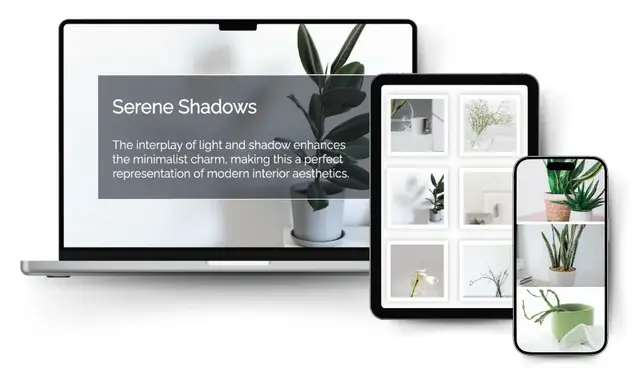
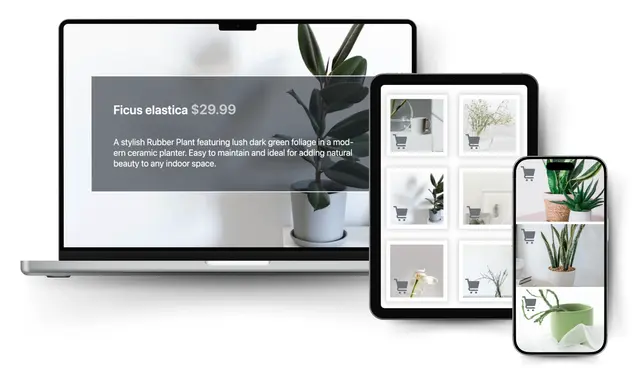
Fully Responsive WordPress Galleries section

diff --git a/src/data/studio-data.tsx b/src/data/studio-data.tsx
@@ -1,25 +1,50 @@
 import image480 from "../assets/sections/responsive-480x276.webp";
 import image640 from "../assets/sections/responsive-640x368.webp";
 import image768 from "../assets/sections/responsive-768x441.webp";
-import image940 from "../assets/sections/responsive-940x540.webp";
+import image1024 from "../assets/sections/responsive-1024x588.webp";
+import image1280 from "../assets/sections/responsive-1280x735.webp";
+import image1500 from "../assets/sections/responsive-1500x862.webp";
+import image1880 from "../assets/sections/responsive-1880x1080.webp";
+import CheckIcon from "@mui/icons-material/Check";
 
 const studioData = {
   id: "studio",
-  title: "Fully Responsive WordPress Galleries",
+  title: "Your product gallery should be working harder than this",
   text: (
     <>
-      Your visitors aren't all using the same device. Your galleries shouldn't
-      look like they are.
-      <br />
-      Re&nbsp;Gallery ensures every gallery is fully responsive, automatically
-      adapting layouts, spacing, and image presentation for any screen size.
-      From large desktop monitors to mobile phones, your galleries remain fast,
-      engaging, and visually stunning - helping you deliver a better user
-      experience and keep visitors focused on your content.
+      Turn any WooCommerce product into a gallery item - with prices,
+      Al-generated descriptions, and layouts that make shoppers stay longer and
+      buy more.
+      <div className="grid-item__list">
+        <div className="grid-item__list-item">
+          <span className="grid-item__check" aria-hidden="true">
+            <CheckIcon />
+          </span>
+          Pull products directly from WooCommerce
+        </div>
+        <div className="grid-item__list-item">
+          <span className="grid-item__check" aria-hidden="true">
+            <CheckIcon />
+          </span>
+          Al alt text for every product image
+        </div>
+        <div className="grid-item__list-item">
+          <span className="grid-item__check" aria-hidden="true">
+            <CheckIcon />
+          </span>
+          11 layouts, including mosaic & carousel
+        </div>
+        <div className="grid-item__list-item">
+          <span className="grid-item__check" aria-hidden="true">
+            <CheckIcon />
+          </span>
+          Direct checkout links on every item
+        </div>
+      </div>
     </>
   ),
-  img: image940,
-  imgSrcSet: `${image480} 480w, ${image640} 640w, ${image768} 768w, ${image940} 940w`,
+  img: image1880,
+  imgSrcSet: `${image480} 480w, ${image640} 640w, ${image768} 768w, ${image1024} 1024w, ${image1280} 1280w, ${image1500} 1500w, ${image1880} 1880w`,
   imgSizes: "(max-width: 768px) 100vw, 50vw",
   alt: `Re Gallery Studio providing expert guidance for building high-converting WordPress photo galleries`,
   additionalButtonLink: "https://wordpress.org/plugins/regallery/?preview=1",